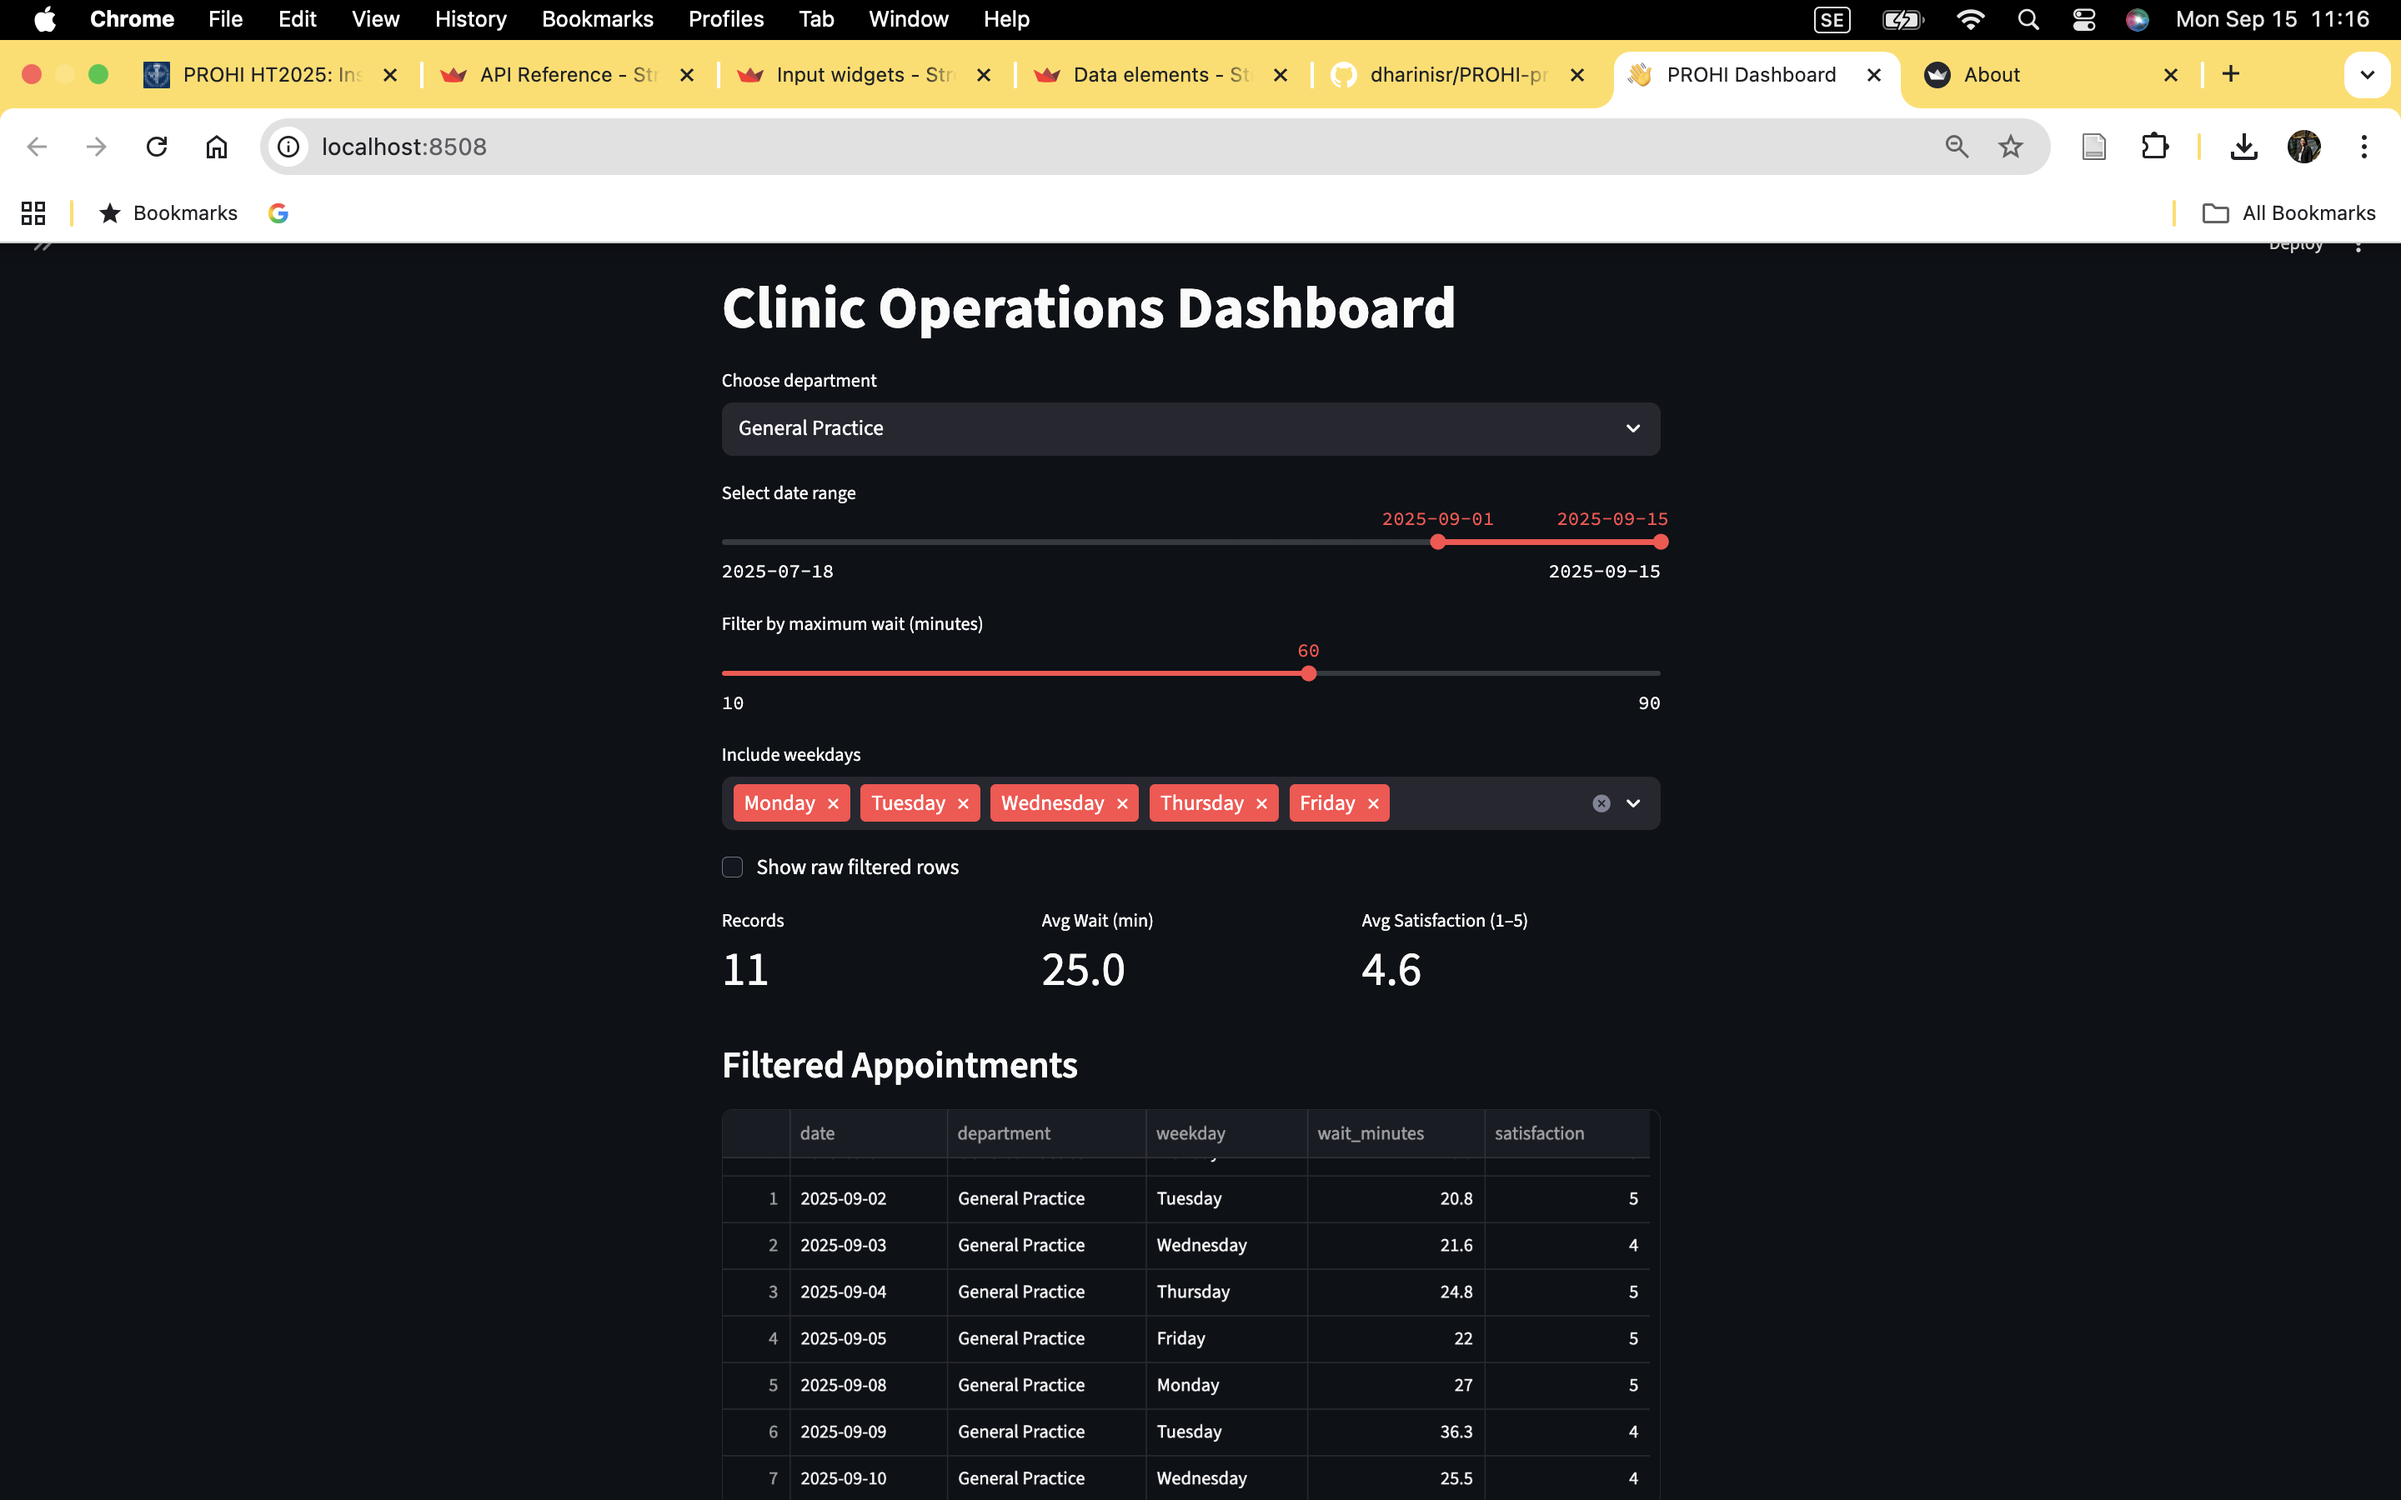
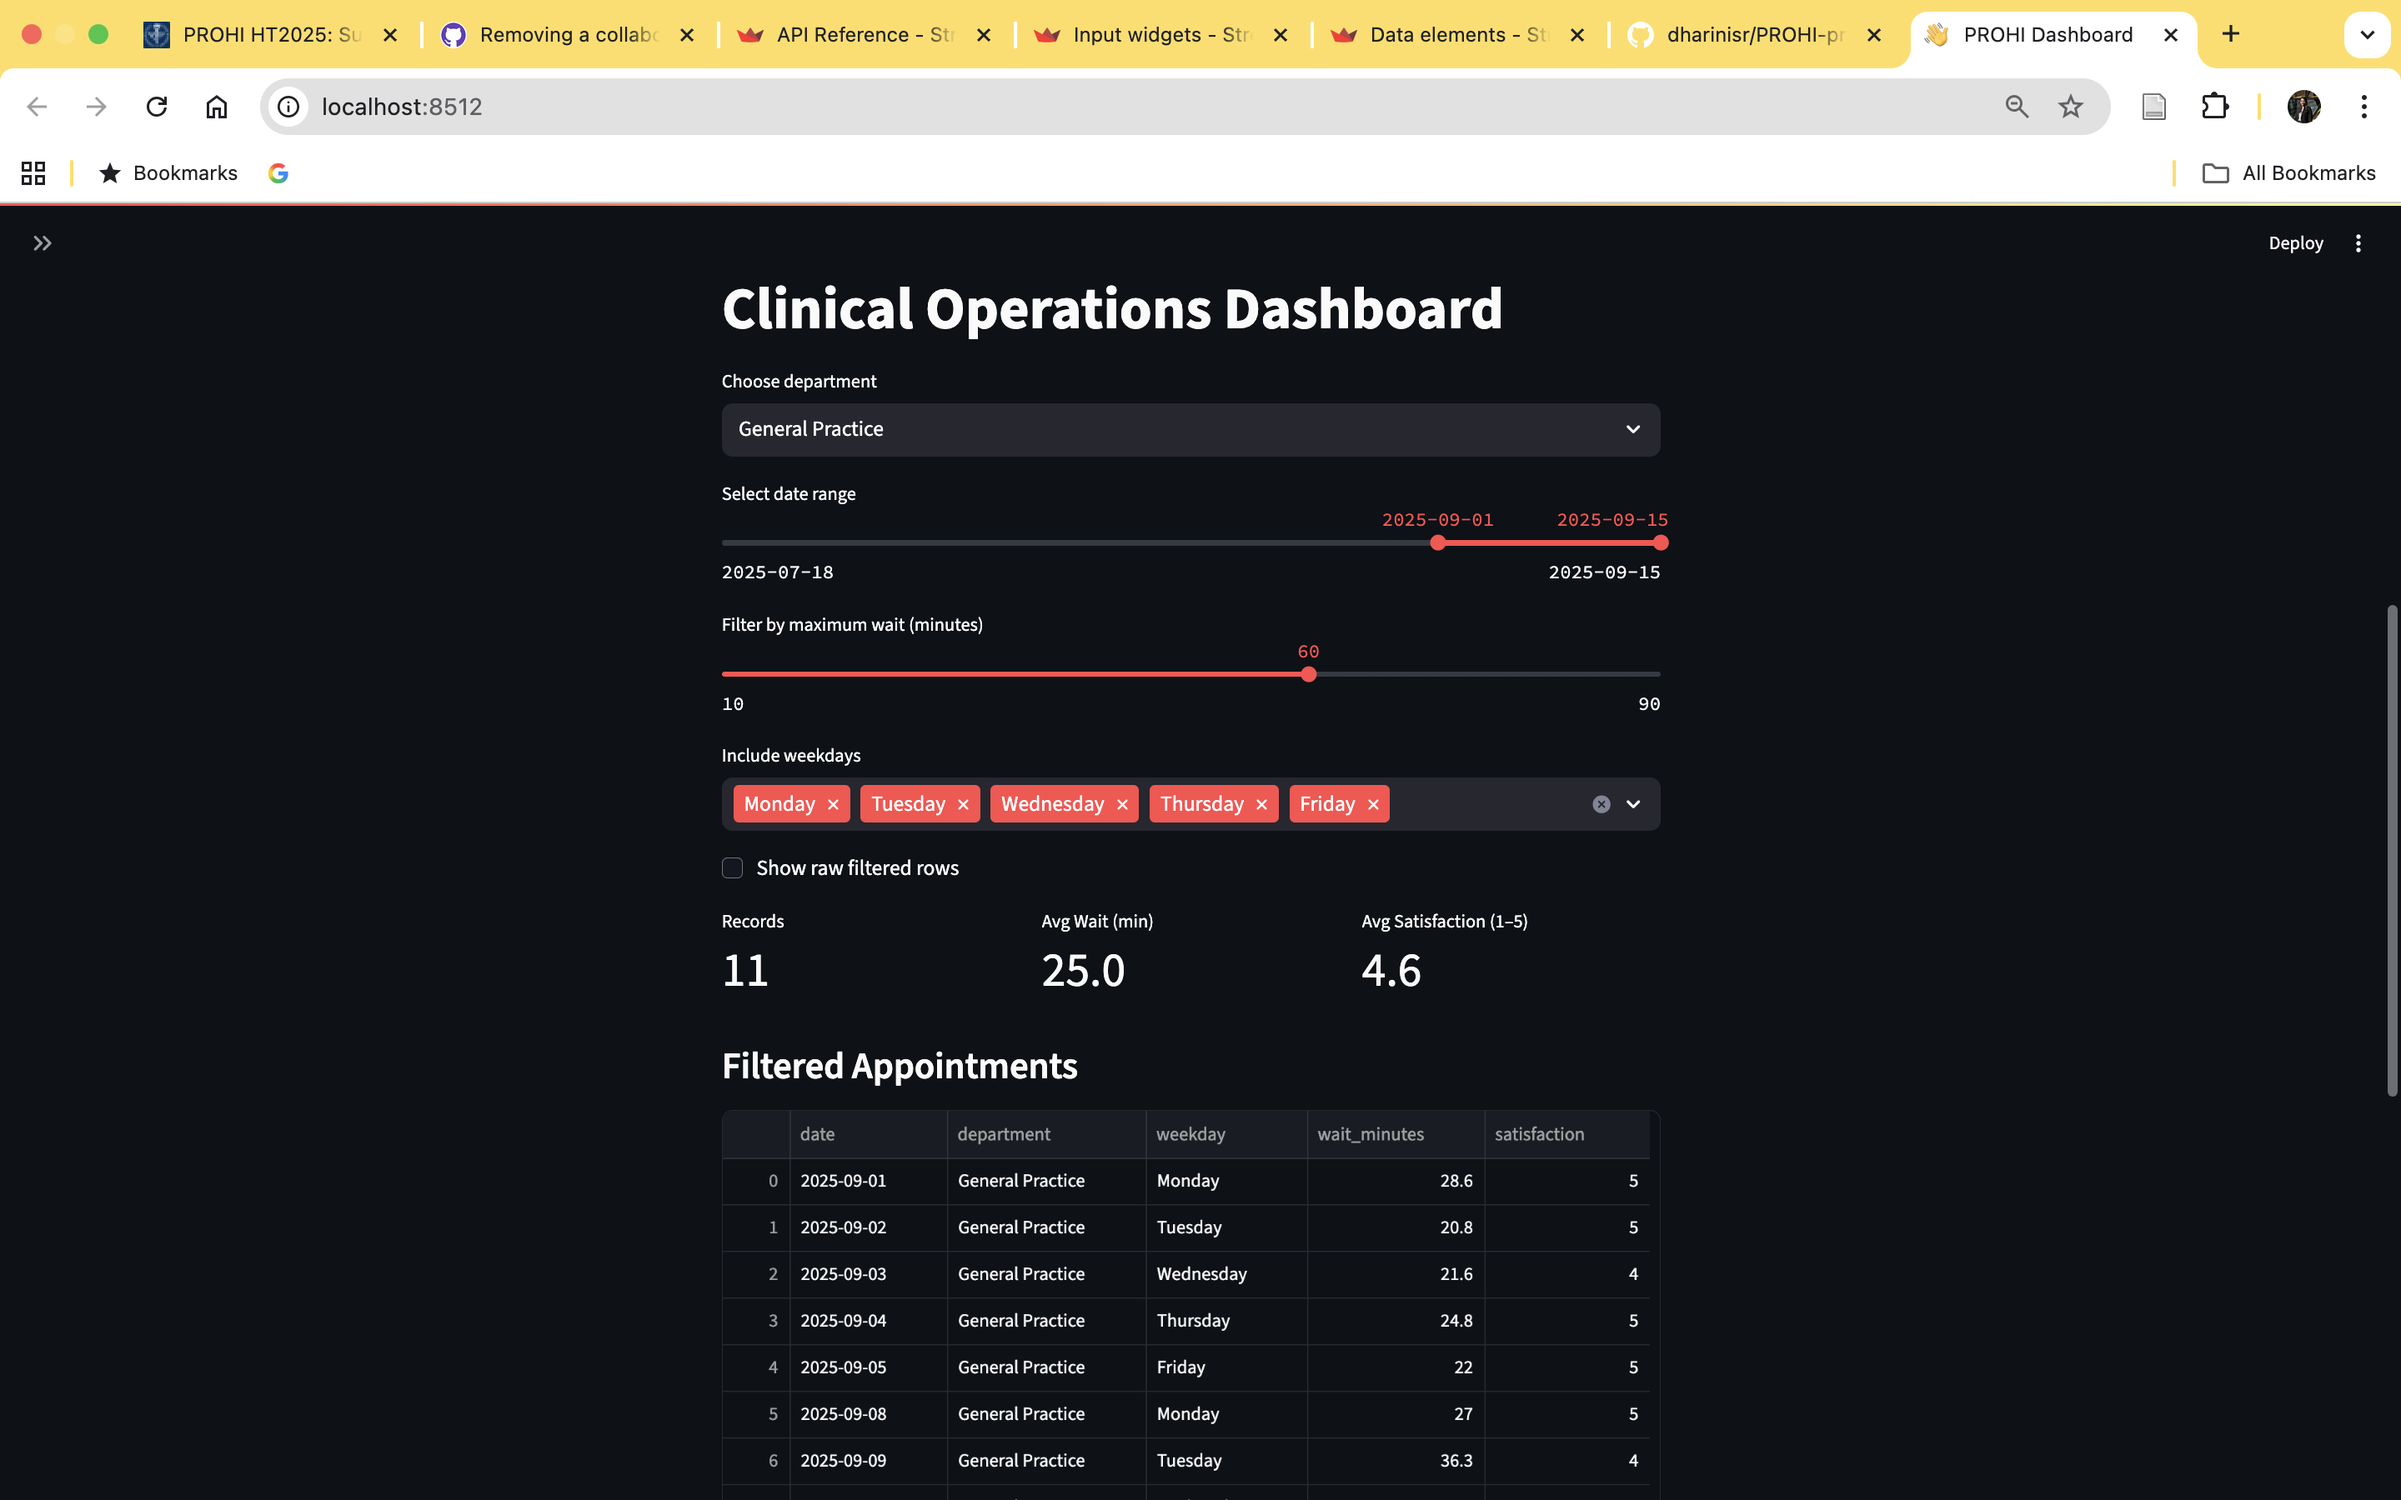
Added dashboard screenshots, updated README.md, and About page
- Added assets/dashboard_screenshot1.png and dashboard_screenshot2.png
- Updated README.md with project explanation and screenshots
- Updated About.py with project summary

diff --git a/Dashboard.py b/Dashboard.py
@@ -61,7 +61,7 @@ import streamlit as st
 import numpy as np
 import pandas as pd
 
-st.title("Clinic Operations Dashboard")
+st.title("Clinical Operations Dashboard")
 
 # ---------- Generate meaningful synthetic data ----------
 np.random.seed(42)
